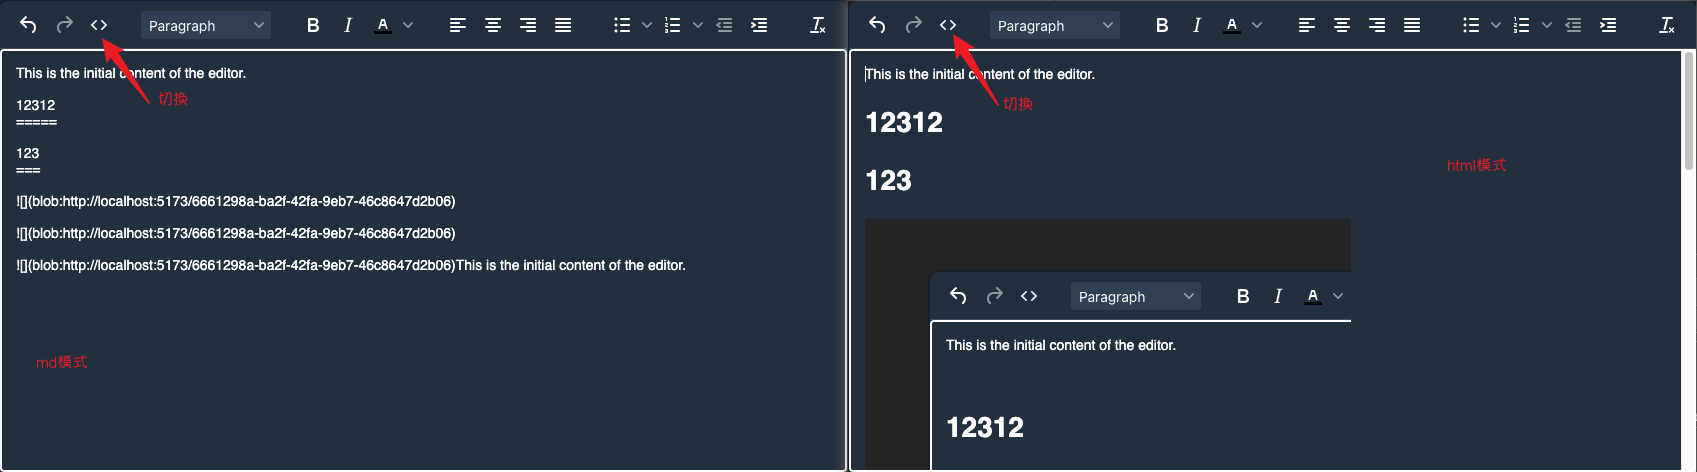
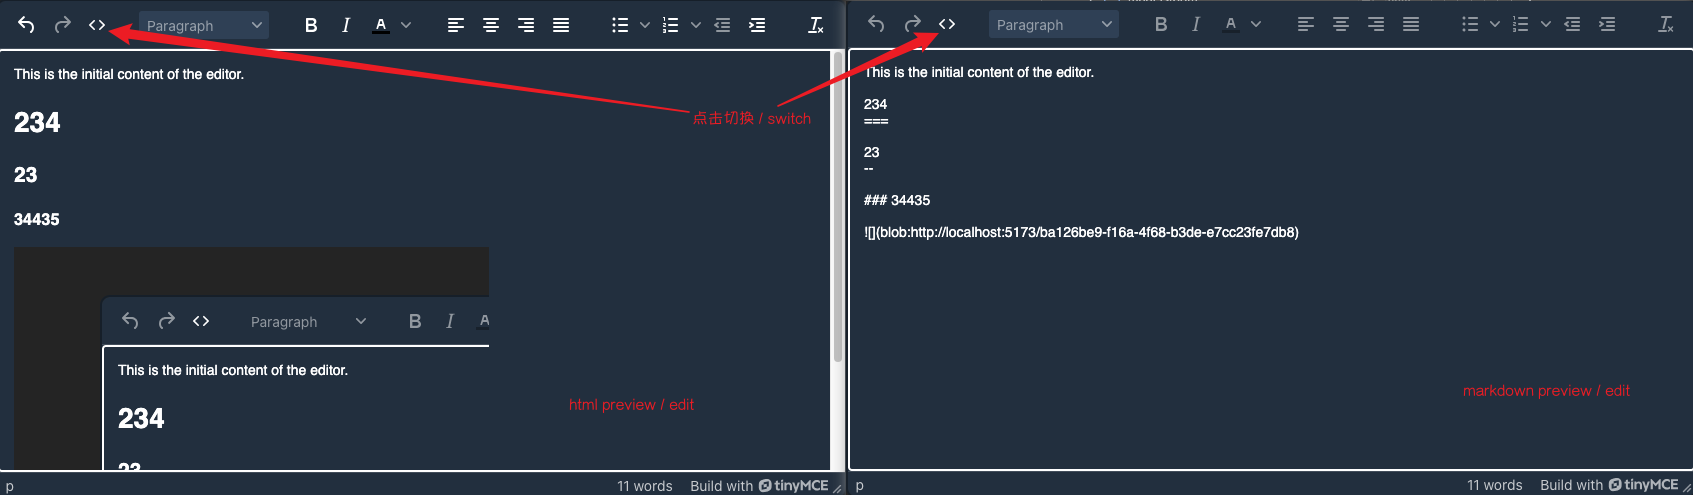
auto focus

diff --git a/src/ui/md-text-editor.ts b/src/ui/md-text-editor.ts
@@ -8,15 +8,29 @@ import {ButtonsUtil} from "./Buttons";
 export class MdTextEditor {
     static shared = new MdTextEditor();
 
+    protected mdTextOpen: boolean = false;
+    doInit(){
+        this.mdTextOpen = false;
+    }
     open(editor: Editor, mdText: string){
+        this.mdTextOpen = true
         this.mdString = mdText;
         ButtonsUtil.shared.setOtherButtonEnabled(editor, false)
         this.addMdEditor(editor)
     }
 
     close(editor: Editor){
+        this.mdTextOpen = false
         ButtonsUtil.shared.setOtherButtonEnabled(editor, true)
         this.removeMdEditor(editor)
+    }
+
+    focus(editor: Editor){
+        if (this.textArea){
+            this.textArea.focus()
+        } else {
+            editor.focus();
+        }
     }
 
     protected mdId = 'md-text-editor';
@@ -164,6 +178,7 @@ export class MdTextEditor {
         // this.mdBodyRmEvent(mdBody)
         // this.htmlBodyRmEvent(iframeBody)
         iframeHtml.removeChild(mdBody);
+        this.textArea = undefined
     }
 
     protected scrollToTop(element: HTMLElement){

diff --git a/src/Plugin.ts b/src/Plugin.ts
@@ -1,21 +1,23 @@
-
+import {Editor} from "tinymce";
 import * as Commands from './api/Commands';
 import {CodeMD} from "./common";
-import {TextHandler} from "./third/text-handler";
-import {ButtonsUtil} from "./ui/Buttons";
-
-type Editor = any
+import {registerUi} from "./ui";
+import {registerThird} from "./third";
 
 
 export default (): void => {
   tinymce.PluginManager.add(CodeMD.ID, (editor: Editor) => {
     Commands.register(editor);
-    ButtonsUtil.shared.register(editor);
 
-    // 注册文本处理
-    TextHandler.shared.register(editor);
+    registerUi(editor);
+    registerThird(editor);
 
     // 返回插件的元数据
-    return {} ;
+    return {
+      getMetadata:  () => ({
+        name: CodeMD.TITLE,
+        url: "https://github.com/yanquer/tinymce-md-code"
+      })
+    } ;
   });
 };

diff --git a/src/ui/Buttons.ts b/src/ui/Buttons.ts
@@ -1,6 +1,7 @@
 import {Editor} from 'tinymce';
 
 import {CodeMD, delayExec} from "../common";
+import {MdTextEditor} from "./md-text-editor";
 
 
 export class ButtonsUtil{
@@ -45,6 +46,7 @@ export class ButtonsUtil{
     if (isEnabled) {
       this._buttonEnableState7 = undefined
     }
+    MdTextEditor.shared.focus(editor)
     return len_ > 0
   }
 
@@ -87,6 +89,7 @@ export class ButtonsUtil{
       this._buttonEnableState6 = undefined
     }
 
+    MdTextEditor.shared.focus(editor)
     return len_ > 0
   }
 

diff --git a/src/ui/index.ts b/src/ui/index.ts
@@ -1,0 +1,10 @@
+import {Editor} from "tinymce";
+import {ButtonsUtil} from "./Buttons";
+import {MdTextEditor} from "./md-text-editor";
+
+export const registerUi = (editor: Editor) => {
+    MdTextEditor.shared.doInit()
+    ButtonsUtil.shared.register(editor);
+}
+
+

diff --git a/src/third/index.ts b/src/third/index.ts
@@ -1,0 +1,9 @@
+import {Editor} from "tinymce";
+import {TextHandler} from "./text-handler";
+
+
+export const registerThird = (editor: Editor) => {
+    // 注册文本处理
+    TextHandler.shared.register(editor);
+}
+

diff --git a/src/common.ts b/src/common.ts
@@ -1,7 +1,7 @@
 
 export enum CodeMD {
     ID = "codemd",
-    TITLE = ID,
+    TITLE = "CodeMd",
     TITLE_ZH = "源代码",
     CMD_ID = "MceCodeEditorMD",
 }

diff --git a/CHANGELOG.md b/CHANGELOG.md
@@ -1,5 +1,10 @@
 # CHANGELOG
 
+## 0.2.2
+
+- 补充返回元数据
+- 自动聚焦到当前编辑器
+
 ## 0.2.1
 
 - 禁用工具栏按钮时, 延迟调用禁用, 避免tinymce其它策略/插件重新启用
